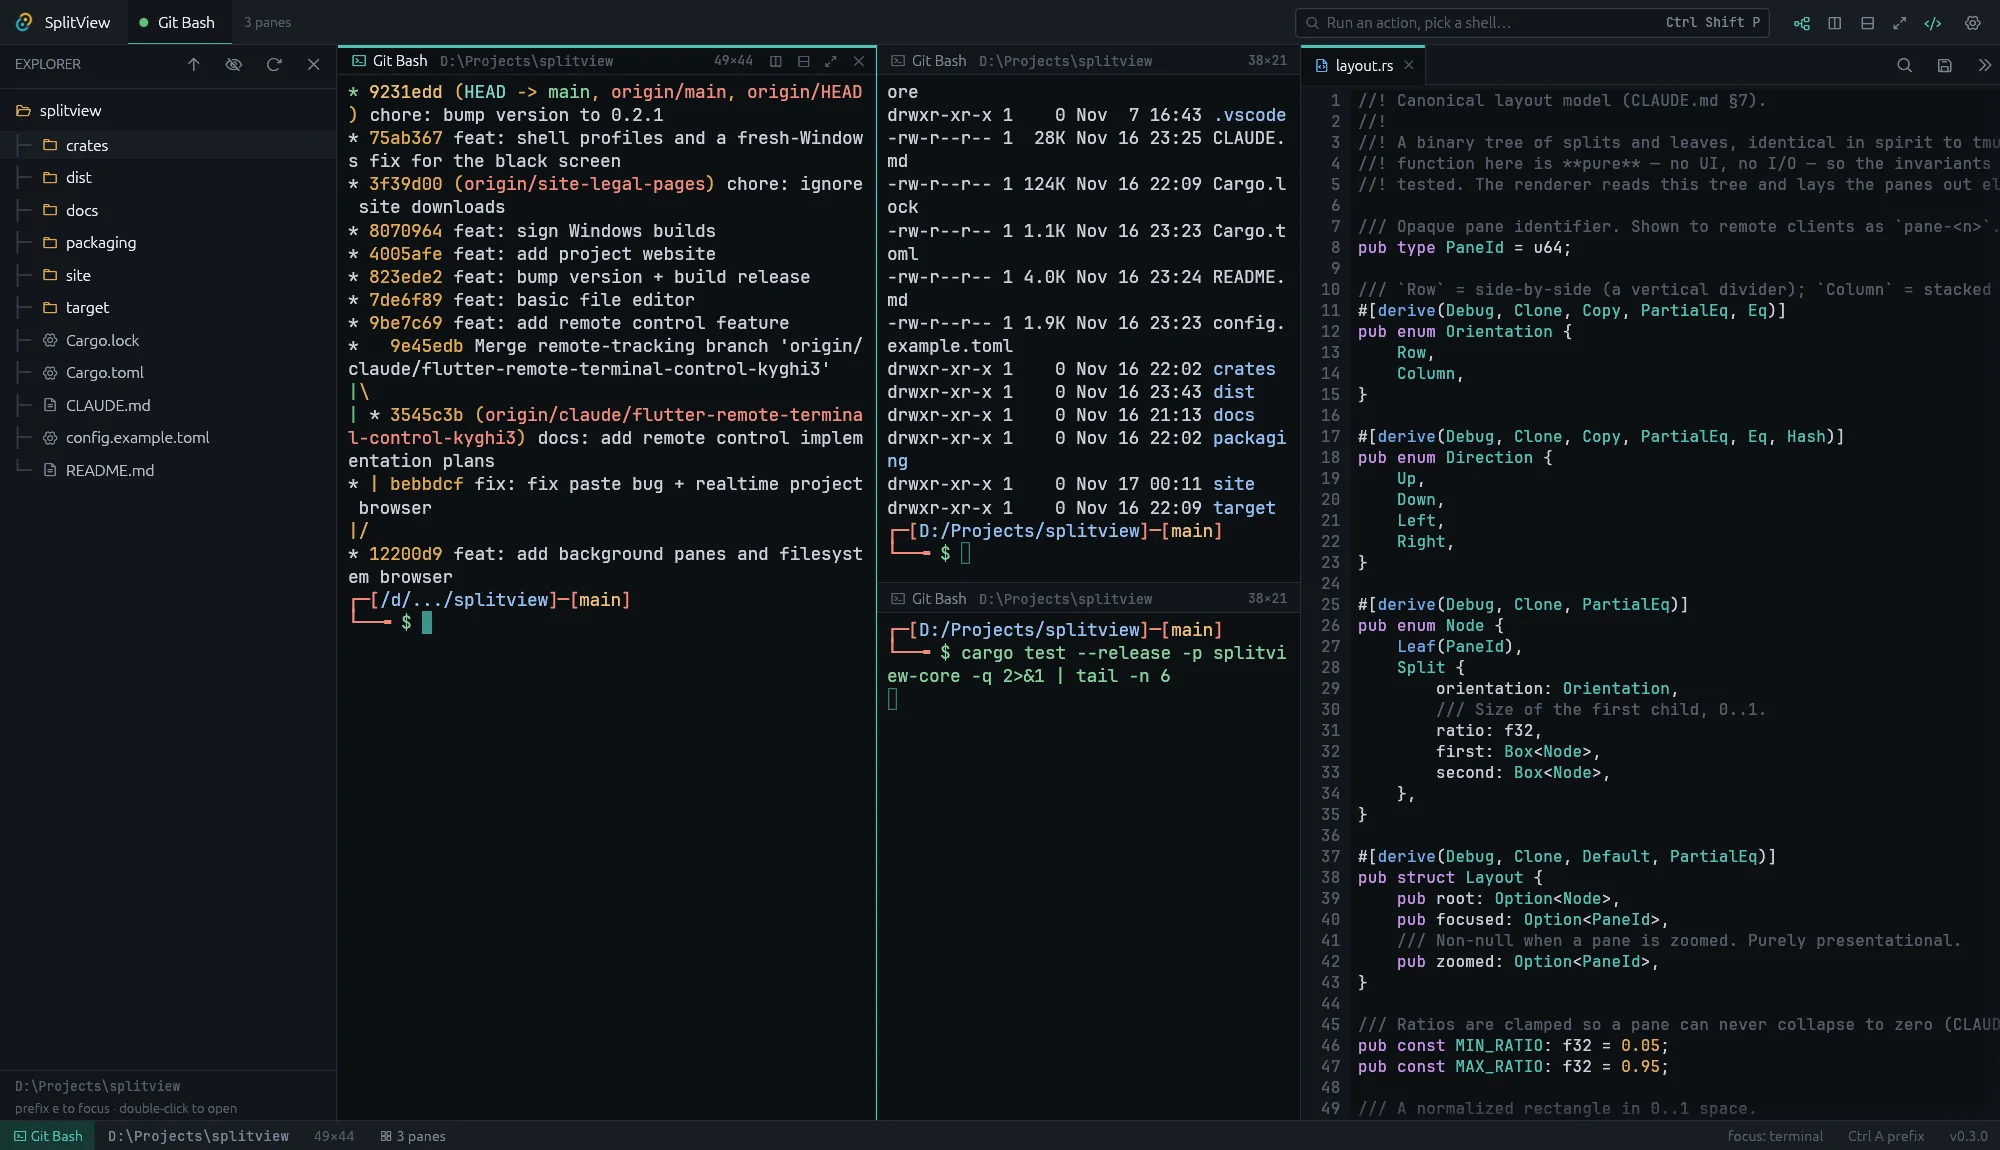
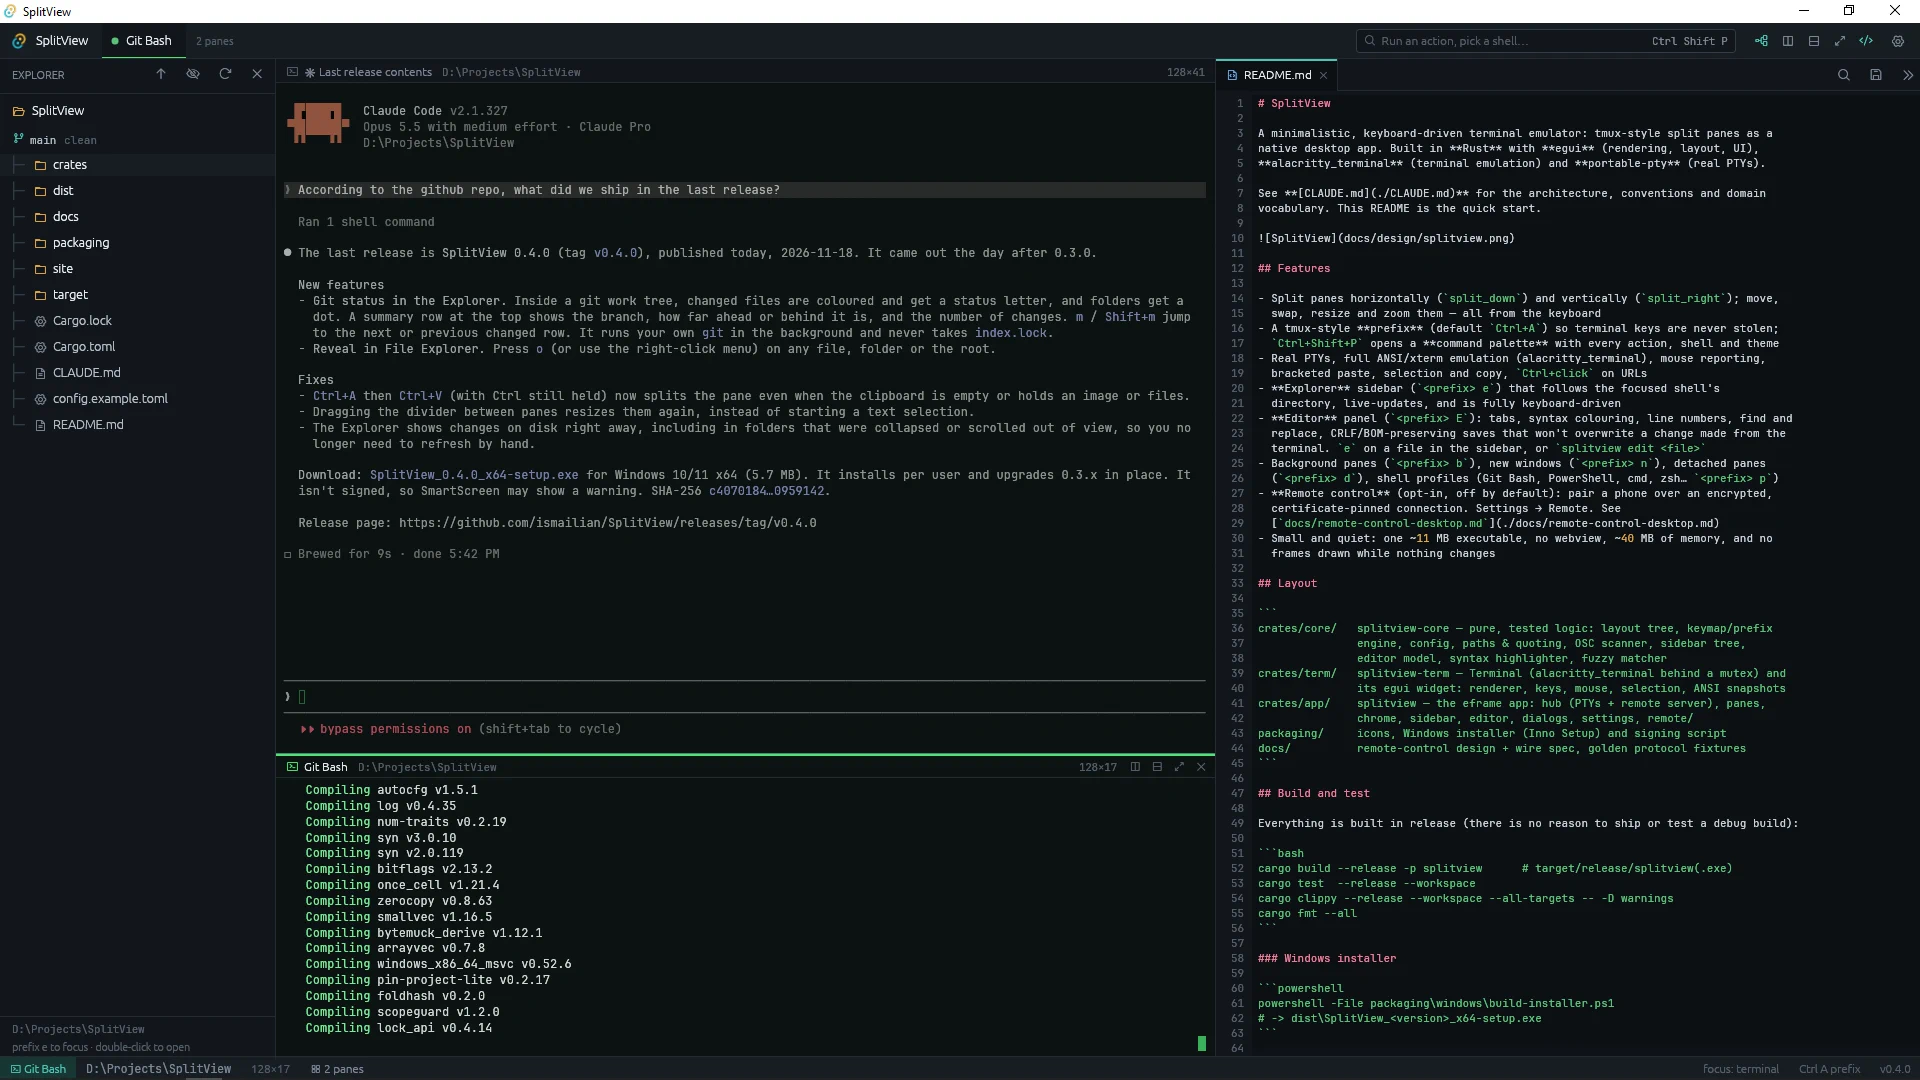
fix(site): re-encode the hero screenshot as a real WebP
The new hero was a 1920x1080 PNG saved with a .webp name (612 KB).
Re-encode it as lossy WebP (q88, opaque, 188 KB) and update the img
dimensions and alt text to match the new shot.

diff --git a/site/index.html b/site/index.html
@@ -56,7 +56,7 @@
 
       <div class="window reveal">
         <div class="window-bar" aria-hidden="true"><i></i><i></i><i></i><span>SplitView</span></div>
-        <img src="/assets/img/hero.webp" width="2000" height="1150" alt="SplitView with the Explorer on the left, three terminal panes running git log, ls and cargo test, and the editor on the right showing a Rust file.">
+        <img src="/assets/img/hero.webp" width="1920" height="1080" alt="SplitView with the Explorer on the left showing a clean git branch, two stacked terminal panes running Claude Code and a cargo build, and the editor on the right showing the README.">
       </div>
 
       <div class="stats reveal" role="list">
